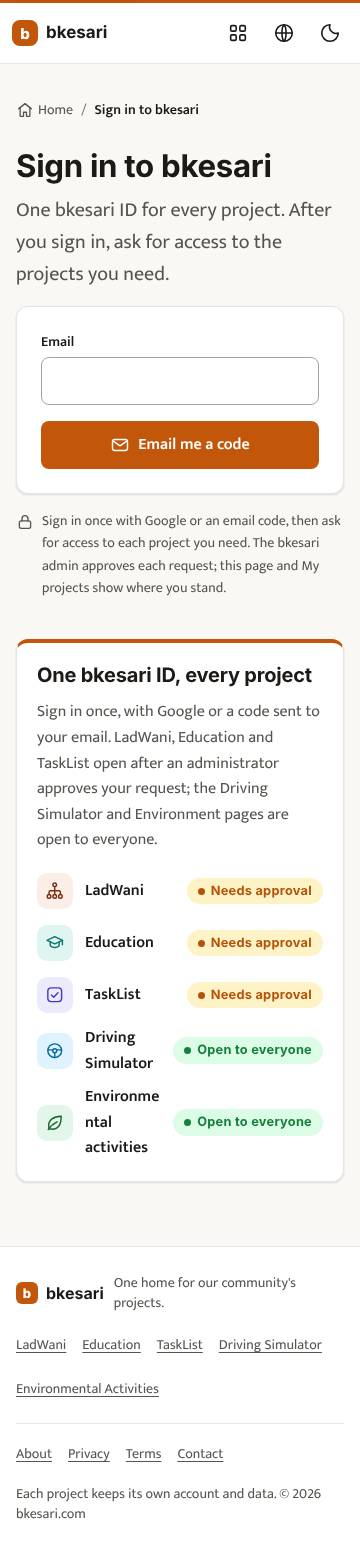
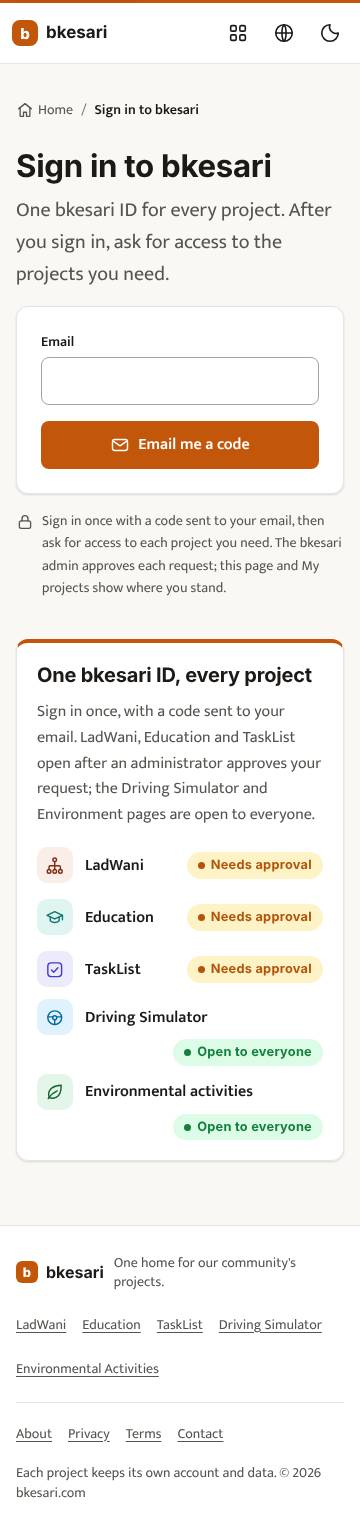
Follow-up live on bkesari.com: live checks, screenshots, tracker
- docs/test-reports/ui-redesign-2026-11-18.md: main 0ce20d7 (U-21, U-22,
  U-23) confirmed live at 02:56 PM IST on 18 Nov 2026; deployment record;
  new section 12.2 with the live checks: the fixes 168/168 (en, mr, hi at
  320/360/768/1440), journeys 56/56, axe 0, responsive 36/36, Lighthouse
  99-100 / 100 / 100 / 100. Notes that /ATIP/ now gets a 308 to /atip/ from
  the VPS's Caddy, a change made outside this work; the tile still reaches
  ATIP's login.
- docs/design/screens/after-prod/: home and sign-in taken again on 0ce20d7.
- docs/FEATURE_STATUS_2026-11-17.xlsx: the follow-up row is Done
  (48 done, 5 blocked, 3 not started).

Claude-Session: https://claude.ai/code/session_01CqprRddpjVeLYpQqJrF8HL

diff --git a/docs/test-reports/ui-redesign-2026-11-18.md b/docs/test-reports/ui-redesign-2026-11-18.md
@@ -3,6 +3,7 @@
 **Brief of 17 Nov 2026, 11:18 PM IST; report of 18 Nov 2026 (IST, UTC + 5:30).**
 Branch `claude/inspiring-cray-41q0vh`, PR [sanjaymorankar-debug/bkesari-platform#40](https://github.com/sanjaymorankar-debug/bkesari-platform/pull/40), on top of `main` 2d03d98 (the bkesari ID, D-039).
 Released to `main` by [sanjaymorankar-debug/bkesari-platform#43](https://github.com/sanjaymorankar-debug/bkesari-platform/pull/43) (`1e80125`); **live on bkesari.com since 18 Nov 2026, 02:25 AM IST** (section 9). Live checks: section 12.
+Follow-up (U-21, U-22, U-23) released to `main` by [sanjaymorankar-debug/bkesari-platform#46](https://github.com/sanjaymorankar-debug/bkesari-platform/pull/46) (`0ce20d7`); **live on bkesari.com, confirmed 18 Nov 2026, 02:56 PM IST**. Live checks: section 12.2.
 Screens: [design/screen-inventory.md](../design/screen-inventory.md). Design system: [design/design-system.md](../design/design-system.md). Decisions D-040 to D-049: [design/decisions.md](../design/decisions.md).
 
 ## 1. Summary
@@ -11,9 +12,9 @@ Screens: [design/screen-inventory.md](../design/screen-inventory.md). Design sys
 |---|---|
 | Verdict on the code | **PASS** — portal-tester PASS (1 S1 defect found and fixed), edu-tester PASS (1 S4 defect found and fixed), CI green (test, ladwani, edu) |
 | Test server (test.bkesari.com) | **Not testable as a separate tier**: since the move to the VPS it answers `301 → https://bkesari.com/`. Instead: the tier checks on a local production-tier build, and a rehearsal of the VPS update on the exact release (section 9) |
-| Production (bkesari.com) | **Live, PASS** — `main` 1e80125 since 02:25 AM IST on the VPS. Journeys 56/56 at 360/768/1024/1440; axe 0 violations (9 pages, light and dark, 360 and 1440); no overflow or target under 44 px (36/36); Lighthouse 99–100 / 100 / 100 / 100 on 6 pages, mobile and desktop (section 12). Two minor defects found live (U-21, U-22), fixed in a follow-up awaiting its VPS update |
+| Production (bkesari.com) | **Live, PASS** — `main` 0ce20d7 (the release 1e80125 of 02:25 AM IST plus the follow-up) on the VPS, confirmed 02:56 PM IST. Journeys 56/56 at 360/768/1024/1440; the follow-up's fixes 168/168 (en, mr, hi at 320/360/768/1440); axe 0 violations (9 pages, light and dark, 360 and 1440); no overflow or target under 44 px (36/36); Lighthouse 99–100 / 100 / 100 / 100 on 6 pages, mobile and desktop (section 12). The two minor defects found live (U-21, U-22) are fixed and live |
 | Screens | 17 hub and shared screens, 2 static pages, 11 LadWani, 10 Education, 4 mobile apps: all built; see section 2 |
-| Defects | 22 found across design, build, testing and the live checks; 20 fixed and live, 2 fixed in the follow-up (section 10) |
+| Defects | 23 found across design, build, testing and the live checks; all fixed and live, U-21 to U-23 with the follow-up (section 10) |
 
 ## 2. Pass / fail per screen
 
@@ -102,14 +103,14 @@ Order: Performance / Accessibility / Best practices / SEO. All ≥ 90. robots.tx
 ## 8. Before / after screenshots
 
 `docs/design/screens/before/` and `after/`, `<screen>-360.jpg` and `-1440.jpg` (JPEG, full page): 18 hub and shared screens, 11 LadWani, 9 Education. Before = production on 17 Nov for public pages; `main` run locally for signed-in pages (2d03d98 for the bkesari ID's screens, 4aaa7fd for LadWani and Education with the same data).
-`docs/design/screens/after-prod/`: the 10 public screens captured on bkesari.com itself after the release went live (home, about, contact, privacy, sign-in, Driving Simulator, Environment, 404, offline, admin sign-in; 360 and 1440). Signed-in screens cannot be captured on production without a real account and its email code.
+`docs/design/screens/after-prod/`: the 10 public screens captured on bkesari.com itself after the release went live (home, about, contact, privacy, sign-in, Driving Simulator, Environment, 404, offline, admin sign-in; 360 and 1440). Signed-in screens cannot be captured on production without a real account and its email code. Home and sign-in were taken again on the follow-up (`0ce20d7`, 02:58 PM IST): sign-in no longer names Google, and "Environmental activities" stays whole at 360.
 
 ## 9. Test server and production server
 
 | Tier | State | Checks |
 |---|---|---|
 | test.bkesari.com | redirects to bkesari.com (no separate tier on the VPS; DEPLOY.md: set aside for releases on 18 Nov) | the tier rules ran locally with `APP_ENV=prod` (robots open, indexable, no on-screen codes) and in the portal-tester's S5 tier step (test and prod: no code or link shown). **Rehearsal of the release**: `git archive` of `dev` 6106b34 (the same tree as `main` 1e80125) built as `update-bkesari.sh prepare` does (`npm run build:hostinger`, 44 s, no errors), started with `APP_ENV=production` and `node portal/start.js`: the script's switch check (the bkesari ID's sign-in) passed; 1.1.0 and 1.0.0 assets, robots, sitemap 200; `/edu/`, `/ladwani/`, `/tasklist/`, `/account` to sign-in; unknown paths 404. Hostinger's preview of `dev` (a `*.hostingersite.com` site on the shared hosting the domain no longer uses) is refused by this environment's network, so it was not used |
-| bkesari.com | `main` 1e80125 since 02:25 AM IST | before: sections 6 and 8 (4 Nov release). After: section 12 |
+| bkesari.com | `main` 1e80125 since 02:25 AM IST; `main` 0ce20d7 (follow-up) confirmed 02:56 PM IST | before: sections 6 and 8 (4 Nov release). After: section 12 (12.1 the release, 12.2 the follow-up) |
 
 ### Deployment record (18 Nov 2026, IST)
 
@@ -121,9 +122,15 @@ Order: Performance / Accessibility / Best practices / SEO. All ≥ 90. robots.tx
 | ~02:20 AM | `update-bkesari.sh check`, `prepare 1e80125…` (owner, on the VPS) | built beside the live copy: `platform-new-1e80125`. An earlier `switch` had correctly refused with "run 'prepare' first" |
 | 02:25 AM | `update-bkesari.sh switch 1e80125…` | Education migration: nothing to migrate; swap (previous copy `platform-prev-eb6598f-20261118-0225`); hub restarted; `php artisan optimize`, php-fpm reloaded; checks: the bkesari ID's sign-in, `/edu/` 302 to sign-in, Education 200 |
 | 02:25 AM | bkesari.com serves Kesari 1.1.0 | seen by the watcher polling the home page every 30 s |
-| 02:27–02:45 AM | live checks | section 12 |
+| 02:27–02:45 AM | live checks | section 12.1 |
+| 03:04 AM | PR #45 merged into `dev` (65f15b0): the follow-up, U-21 to U-23 | portal-tester PASS (section 10) |
+| 03:26 AM | PR #46 merged `dev` → `main` (0ce20d7) | test, ladwani, edu green; the same two red dev `deploy` checks |
+| 06:11 AM | bkesari.com still on 1e80125 | the watcher's 2 hours ran out; checked by hand |
+| by 02:56 PM | `update-bkesari.sh check`, `prepare`, `switch 0ce20d7…` (owner, on the VPS) | done |
+| 02:56 PM | bkesari.com serves the follow-up | sign-in has `hub-auth__pname`, no "Google" on sign-in or home |
+| 02:57–03:05 PM | live checks | section 12.2 |
 
-The day-one account linking (`update-bkesari.sh link`) was not needed again: it ran with the bkesari ID's release at 01:23 AM. Rollback, if ever needed: `sudo bash /tmp/update-bkesari.sh rollback` returns to `eb6598f`.
+The day-one account linking (`update-bkesari.sh link`) was not needed again: it ran with the bkesari ID's release at 01:23 AM. Rollback, if ever needed: `sudo bash /tmp/update-bkesari.sh rollback` returns to `1e80125` (the copy kept by the follow-up's switch).
 
 ## 10. Defects found and fixed
 
@@ -149,9 +156,9 @@ The day-one account linking (`update-bkesari.sh link`) was not needed again: it 
 | U-18 | S3 | Kesari | A spouse who has passed away lost the dashed outline | kept |
 | U-20 | S4 | Education (edu-tester D1) | On Marathi/Hindi pages a confidence level or complaint status stayed in English inside a translated sentence | translated; 2 tests |
 | U-19 | S4 | My projects (draft) | LadWani's PENDING read as "waiting for an operator" | superseded by D-039's `/account` |
-| U-21 | S3 | sign-in, live | At 360 px the aside broke "Environmental" mid-word ("Environme / ntal"): the rows' grid let the name column shrink to nothing | rows wrap: the name stays whole, the chip moves to the next line; test (follow-up 1eeda7e, awaiting the VPS update) |
-| U-22 | S3 | sign-in and home, live | "Sign in once with Google or an email code" while production has no Google button (keys not set yet) | the wording follows the button: Google named only while it is on; 2 new strings × 3 languages; tests (follow-up 1eeda7e, awaiting the VPS update) |
-| U-23 | S4 | home (portal-tester D1 on the follow-up) | With Google on, inside a WebView or an in-app browser (Instagram, Facebook) the home card still named Google, though the sign-in page shows no button there | the home route asks `googleEntry` like the sign-in page; test for a browser, the bkesari app, a WebView and Instagram (0ffac9e) |
+| U-21 | S3 | sign-in, live | At 360 px the aside broke "Environmental" mid-word ("Environme / ntal"): the rows' grid let the name column shrink to nothing | rows wrap: the name stays whole, the chip moves to the next line; test (follow-up 1eeda7e; live with 0ce20d7, section 12.2) |
+| U-22 | S3 | sign-in and home, live | "Sign in once with Google or an email code" while production has no Google button (keys not set yet) | the wording follows the button: Google named only while it is on; 2 new strings × 3 languages; tests (follow-up 1eeda7e; live with 0ce20d7, section 12.2) |
+| U-23 | S4 | home (portal-tester D1 on the follow-up) | With Google on, inside a WebView or an in-app browser (Instagram, Facebook) the home card still named Google, though the sign-in page shows no button there | the home route asks `googleEntry` like the sign-in page; test for a browser, the bkesari app, a WebView and Instagram (0ffac9e; live with 0ce20d7) |
 
 The follow-up (1eeda7e, 0ffac9e) went through the portal-tester: **PASS**, `npm run test:pg` 219/219, all 13 levels and 30 critical checks, Google on and off in en/mr/hi at 320/360/768/1440 in light and dark (216 page loads, axe 0 in 108 runs). Report `.claude/test-runs/20261117-212853-portal-tester.md`.
 
@@ -159,7 +166,7 @@ The follow-up (1eeda7e, 0ffac9e) went through the portal-tester: **PASS**, `npm 
 
 1. ~~Update the VPS~~ **Done**: live since 02:25 AM IST (section 9).
 2. ~~Live checks after the update~~ **Done**: section 12.
-2a. **Follow-up release** (U-21, U-22, U-23): once it is on `main`, the same three steps on the VPS (`check`, `prepare`, `switch` with the new `main` commit; DEPLOY.md Part 10).
+2a. ~~Follow-up release~~ **Done**: `main` 0ce20d7 live, confirmed 02:56 PM IST; live checks in section 12.2.
 2c. **Shell below 340 px on dev and test only (portal-tester O1, S4, pre-existing)**: with the tier badge in the brand, signed-in pages scroll 20 px sideways under 340 px. Production has no badge and is not affected. Proposed: hide the brand's name (visually) under 360 px when the badge shows; `portal/public/shared/menu.js` is shared by every project, so it is its own change.
 2b. **Google sign-in on production** (owner): set `GOOGLE_CLIENT_ID` and `GOOGLE_CLIENT_SECRET` (and the redirect URI in Google's console); after U-22's fix the pages name Google by themselves once it is on.
 3. **Hardening (portal-tester O2)**: robots.txt and the sitemap build their URLs from the request's host and are publicly cacheable; use a fixed origin per tier. On production the host is right (`Sitemap: https://bkesari.com/sitemap.xml`, Caddy passes it through), so this is low priority.
@@ -170,7 +177,9 @@ The follow-up (1eeda7e, 0ffac9e) went through the portal-tester: **PASS**, `npm 
 9. **Education tests to add**: the child-safety callout and the dashboard role matrix are unchanged and pass, but no committed test covers them yet (the edu-tester's probe can be committed as it is).
 8. **Translations**: Marathi and Hindi written for this release need a native speaker's read (D-019).
 
-## 12. Live checks on bkesari.com (18 Nov 2026, 02:27–02:45 AM IST)
+## 12. Live checks on bkesari.com
+
+### 12.1 The release (18 Nov 2026, 02:27–02:45 AM IST)
 
 Release `main` 1e80125, live since 02:25 AM IST. Run from the cloud session against `https://bkesari.com` (Caddy on the VPS; responses `Cache-Control: no-cache`, so no cache stood in front of the checks). Production sends sign-in codes by email and never shows them on screen, so the signed-in journeys of section 4 cannot be automated there; they ran on the production-tier build and in both testing agents.
 
@@ -186,3 +195,19 @@ Release `main` 1e80125, live since 02:25 AM IST. Run from the cloud session agai
 The same journeys on the release before (`eb6598f`, the bkesari ID on Kesari 1.0.0) at 01:43 AM, at 360 px: the 6 gate checks passed and the 8 redesign checks failed, as expected. That run is the "before" baseline for this table.
 
 Found live and fixed in the follow-up (section 10): U-21 (a project name broke mid-word in the sign-in aside at 360 px) and U-22 (the pages named Google while production has no Google button). Neither was caught by axe or the overflow check, only by looking at the live screenshots.
+
+### 12.2 The follow-up (18 Nov 2026, 02:56–03:05 PM IST)
+
+Release `main` 0ce20d7, confirmed live at 02:56 PM IST. Same place and tools as 12.1, plus a check written for the follow-up's fixes (`live-fix.cjs`) so they no longer depend on looking at screenshots.
+
+| Check | Tool | Scope | Result |
+|---|---|---|---|
+| The follow-up's fixes (U-21, U-22) | Playwright (`live-fix.cjs`) | sign-in and home in English, Marathi and Hindi (`k_lang` cookie) × 320/360/768/1440: served in that language; the word "Google" nowhere in the page and no Google button (production has no Google keys yet); no horizontal scroll. Sign-in's 5 project rows: each name breaks only between words (checked per line of text), the chip stays inside its row, row ≥ 44 px | **168 / 168 PASS**. At 320 and 360 px "Environmental activities" and "पर्यावरण गतिविधियाँ" stay whole on one line and the chip moves below (rows 66–68 px) |
+| Signed-out journeys | Playwright (`prod-func.js`) | the 14 checks of 12.1 × 360/768/1024/1440 | **56 / 56 PASS** |
+| Accessibility | axe-core 4, WCAG 2.1 A + AA | the 9 pages of 12.1 × 360 and 1440 × light and dark | **0 violations** |
+| Responsive | Playwright | the 9 pages × 360/768/1024/1440 | **36 / 36 clean** |
+| Lighthouse 12 | Chromium | `/`, sign-in, Driving Simulator, Environment, about, contact × mobile and desktop | performance **99–100**, accessibility, best practices, SEO **100** (the same as 12.1; LCP 0.9–1.3 s mobile, 0.2–0.3 s desktop; CLS ≤ 0.007) |
+| Routes | curl | `/kesari-ui/1.1.0/` and `/1.0.0/` 200; robots.txt, sitemap.xml 200; unknown paths 404; `/ATIP/` ends on ATIP's own login | **PASS** |
+| Screenshots | Playwright | `docs/design/screens/after-prod/hub-home-*` and `hub-signin-*` taken again on 0ce20d7 | taken |
+
+Seen on the way, not part of this release: `/ATIP/` now answers `308 → /atip/` from Caddy, and ATIP's app then sends a visitor to `/atip/login?next=/atip/`. At 06:11 AM `/ATIP/` still went straight to the hub (a single 302). `update-bkesari.sh` does not touch Caddy and the follow-up changed no ATIP route (`git diff 1e80125 0ce20d7 -- portal/server.js scripts/vps/` is empty), so this is a change to the VPS's Caddy configuration made outside this work. The ATIP tile and menu entry still link to `/ATIP/` unchanged and still arrive at ATIP's login.
